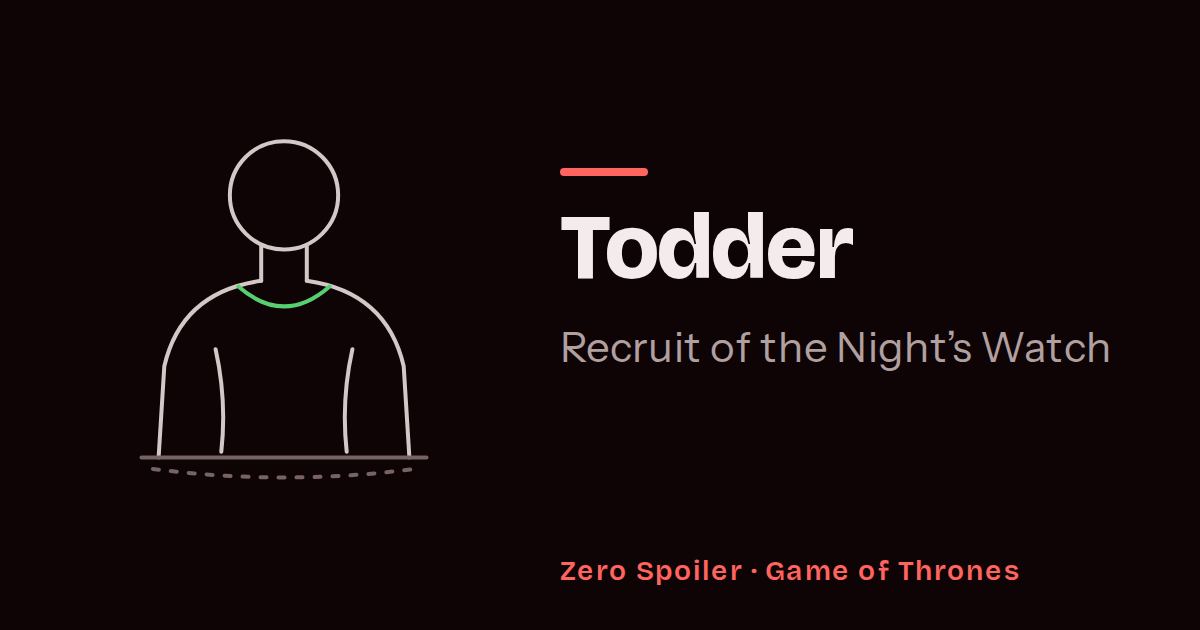
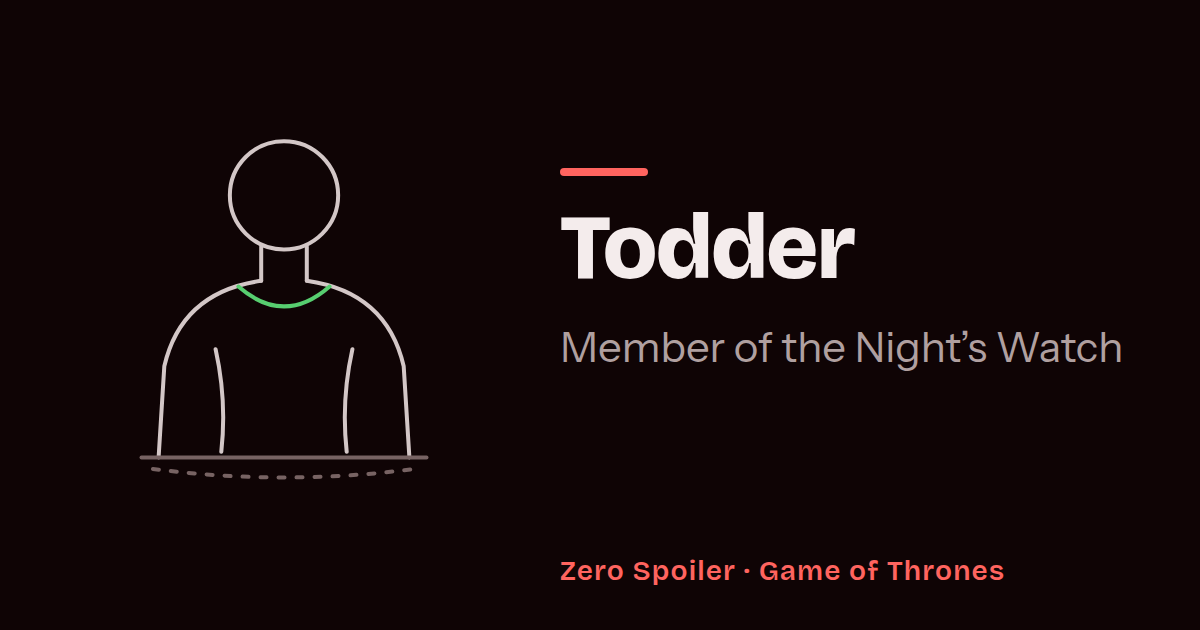
fix(thrones): keep Todder's opening text true in both media
The show first has him as a brother at episode 30, so his opening texts
stop calling him a recruit. Redraws his two cards.

Changed region(s): [[0.4625, 0.5127, 0.9558, 0.6032], [0.4933, 0.8746, 0.8633, 0.9349], [0.4933, 0.3619, 0.7092, 0.4222]]

diff --git a/src/data/series/game-of-thrones/records/season-1.ts b/src/data/series/game-of-thrones/records/season-1.ts
@@ -1920,8 +1920,8 @@ export const season1: ThronesSaga = {
       revealedAtChapter: 20,
       name: { it: 'Todder', en: 'Todder' },
       summary: {
-        it: 'Uno del gruppo di reclute di Jon Snow a Castello Nero.',
-        en: 'One of Jon Snow’s group of recruits at Castle Black.',
+        it: 'Un membro dei Guardiani della notte a Castello Nero.',
+        en: 'A member of the Night’s Watch at Castle Black.',
       },
       visual: { art: 'todder', tint: 'green' },
     },
@@ -5179,8 +5179,8 @@ export const season1: ThronesSaga = {
           episode: 30,
           chapter: 20,
           value: {
-            it: 'Recluta dei Guardiani della notte',
-            en: 'Recruit of the Night’s Watch',
+            it: 'Membro dei Guardiani della notte',
+            en: 'Member of the Night’s Watch',
           },
         },
         {
@@ -5193,8 +5193,8 @@ export const season1: ThronesSaga = {
         },
       ],
       log: {
-        it: 'Fa parte dello stesso gruppo di reclute di Jon Snow a Castello Nero.',
-        en: 'He is in the same group of recruits as Jon Snow at Castle Black.',
+        it: 'È a Castello Nero con Jon Snow.',
+        en: 'He is at Castle Black with Jon Snow.',
       },
       status: [{ episode: 30, chapter: 20, value: 'alive' }],
       affiliation: [
